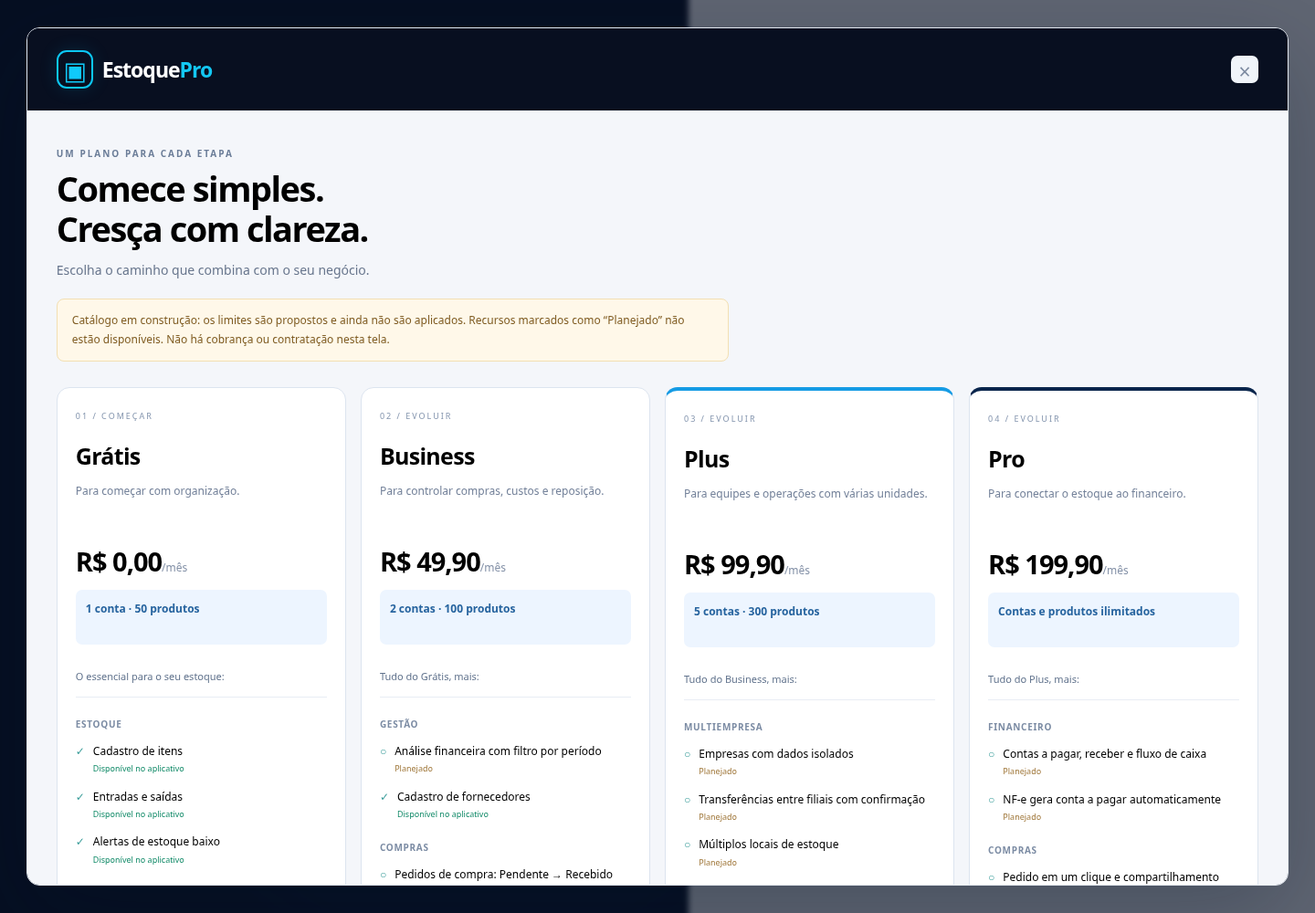
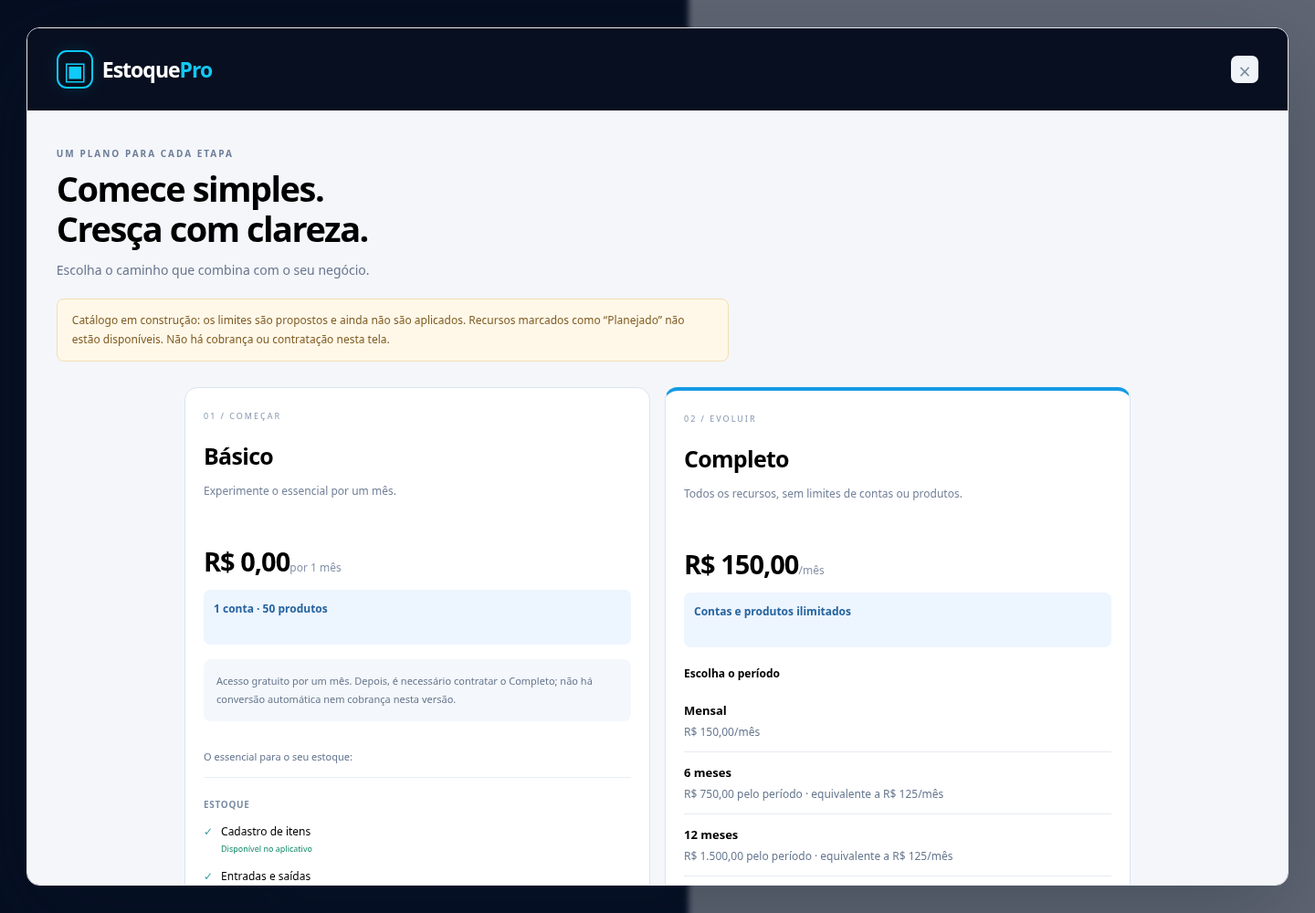
feat: simplificar catalogo para Basico e Completo com periodos

diff --git a/src/estoquepro/static/plans.js b/src/estoquepro/static/plans.js
@@ -13,11 +13,11 @@
         if (!response.ok) throw new Error('Não foi possível carregar os planos.');
         catalog = (await response.json()).plans;
       }
-      target.innerHTML = '<div class="plan-grid">' + catalog.map((plan, index) => {
+      target.innerHTML = '<div class="plan-grid two-plans">' + catalog.map((plan, index) => {
         const predecessor = catalog.find(p => p.id === plan.inherits);
         const groups = [...new Set(plan.features.map(f => f.group))];
         const limits = plan.accounts === null ? 'Contas e produtos ilimitados' : `${plan.accounts} ${plan.accounts === 1 ? 'conta' : 'contas'} · ${plan.products} produtos`;
-        return `<article class="plan-card plan-${escape(plan.id)}"><p class="plan-number">0${index+1} / ${index ? 'EVOLUIR' : 'COMEÇAR'}</p><h3>${escape(plan.name)}</h3><p class="plan-description">${escape(plan.description)}</p><div class="plan-price">${new Intl.NumberFormat('pt-BR', {style:'currency',currency:'BRL'}).format(plan.price_cents/100) + '<span>/mês</span>'}</div><p class="plan-limits">${escape(limits)}</p><p class="plan-inherits">${predecessor ? `Tudo do ${escape(predecessor.name)}, mais:` : 'O essencial para o seu estoque:'}</p>${groups.map(group => `<section class="plan-feature-group"><h4>${escape(group)}</h4><ul>${plan.features.filter(f=>f.group===group).map(feature=>`<li><span aria-hidden="true">${feature.available?'✓':'○'}</span><div>${escape(feature.name)}<small class="feature-state ${feature.available?'available':''}">${feature.available?'Disponível no aplicativo':'Planejado'}</small></div></li>`).join('')}</ul></section>`).join('')}</article>`;
+        return `<article class="plan-card plan-${escape(plan.id)}"><p class="plan-number">0${index+1} / ${index ? 'EVOLUIR' : 'COMEÇAR'}</p><h3>${escape(plan.name)}</h3><p class="plan-description">${escape(plan.description)}</p><div class="plan-price">${new Intl.NumberFormat('pt-BR', {style:'currency',currency:'BRL'}).format(plan.price_cents/100) + (plan.trial_months ? '<span>por 1 mês</span>' : '<span>/mês</span>')}</div><p class="plan-limits">${escape(limits)}</p>${plan.trial_months ? '<div class="plan-terms">Acesso gratuito por um mês. Depois, é necessário contratar o Completo; não há conversão automática nem cobrança nesta versão.</div>' : '<div class="billing-choices"><h4>Escolha o período</h4>' + plan.billing_options.map(option => '<div class="billing-choice"><strong>' + escape(option.id === 'mensal' ? 'Mensal' : option.id === 'semestral' ? '6 meses' : '12 meses') + '</strong><span>' + new Intl.NumberFormat('pt-BR',{style:'currency',currency:'BRL'}).format(option.total_cents/100) + (option.months === 1 ? '/mês' : ' pelo período · equivalente a R$ 125/mês') + '</span></div>').join('') + '<div class="plan-terms">Condições propostas: plano semestral com prazo de cancelamento antecipado de 2 meses de uso; anual, de 3 meses. Após esse prazo, o período contratado permanece até o fim. A renovação pode ser desativada. Condições de reembolso e direitos legais precisam ser definidos no contrato antes da contratação.</div></div>'}<p class="plan-inherits">${predecessor ? `Tudo do ${escape(predecessor.name)}, mais:` : 'O essencial para o seu estoque:'}</p>${groups.map(group => `<section class="plan-feature-group"><h4>${escape(group)}</h4><ul>${plan.features.filter(f=>f.group===group).map(feature=>`<li><span aria-hidden="true">${feature.available?'✓':'○'}</span><div>${escape(feature.name)}<small class="feature-state ${feature.available?'available':''}">${feature.available?'Disponível no aplicativo':'Planejado'}</small></div></li>`).join('')}</ul></section>`).join('')}</article>`;
       }).join('') + '</div><div class="plan-bottom"><h3>Transparência em cada etapa.</h3><p>As funcionalidades disponíveis hoje continuam acessíveis no aplicativo. O lançamento dos planos depende da implantação de limites, isolamento de empresas e permissões. Integrações Google e atendimento precisam de configuração. Automações serão feitas com regras locais, sem serviços pagos de IA.</p></div>';
     } catch (error) {
       target.innerHTML = '<div class="empty"><b>Planos indisponíveis</b><p></p><button type="button" class="secondary" id="retry-plans">Tentar novamente</button></div>';

diff --git a/src/estoquepro/static/style.css b/src/estoquepro/static/style.css
@@ -2,3 +2,5 @@
 
 .auth-card{width:100%;max-width:355px}.auth-tabs{display:flex;gap:8px;border-bottom:1px solid var(--line);margin-bottom:30px}.auth-tabs button{flex:1;background:none;border:0;border-bottom:3px solid transparent;padding:13px;color:var(--muted);font-weight:650;font-size:13px}.auth-tabs button[aria-selected="true"]{color:var(--blue);border-bottom-color:var(--blue)}
 .plans-entry{margin:20px 0;font-size:12px;width:100%}#plans-dialog{width:min(1440px,96vw);max-height:94vh;background:#f4f6fa}.plans-header{display:flex;justify-content:space-between;align-items:center;padding:24px 32px;background:#080f20}.plans-intro{padding:40px 32px 28px;max-width:800px}.plans-intro h2{font-size:38px;line-height:1.15;letter-spacing:-1.5px}.plans-intro>p:not(.eyebrow){font-size:14px;color:#68768d}.plans-disclosure{font-size:12px;line-height:1.7;background:#fff8e9;border:1px solid #f2dfb2;border-radius:8px;padding:13px 16px;color:#805d23;margin-top:22px}.plan-grid{padding:0 32px 32px;display:grid;grid-template-columns:repeat(4,minmax(0,1fr));gap:16px;align-items:start}.plan-card{border:1px solid #dce4ef;background:white;border-radius:14px;padding:24px 20px}.plan-plus{border-top:4px solid #159be4}.plan-pro{border-top:4px solid #09254c}.plan-number{font-size:9px;letter-spacing:2px;color:#8495ae;margin:0 0 20px}.plan-card h3{font-size:25px;letter-spacing:-.7px}.plan-description{font-size:12px;line-height:1.7;color:#74829a;min-height:45px}.plan-price{font-size:29px;font-weight:750;letter-spacing:-1px;margin:22px 0 8px}.plan-price span{font-size:12px;font-weight:400;color:#8592a8;letter-spacing:0}.plan-limits{font-size:12px;font-weight:650;line-height:1.6;color:#27649f;background:#edf5ff;padding:11px;border-radius:7px;min-height:60px}.plan-inherits{font-size:11px;color:#61738d;border-bottom:1px solid #e8edf4;padding:15px 0}.plan-feature-group h4{font-size:10px;text-transform:uppercase;letter-spacing:.7px;margin:22px 0 12px;color:#7c8ca4}.plan-feature-group ul{list-style:none;padding:0;margin:0}.plan-feature-group li{display:flex;gap:9px;font-size:12px;line-height:1.6;margin:13px 0}.plan-feature-group li>span{color:#369b98}.feature-state{display:block;font-size:9px;color:#a0783b;margin-top:3px}.feature-state.available{color:#138b69}.plan-bottom{margin:0 32px 32px;padding:25px;background:#e7eff9;border-radius:12px}.plan-bottom p{color:#5d718d;font-size:12px;line-height:1.8;max-width:950px}.sidebar>.plans-entry{margin-top:30px;background:#15233b;border-color:#233856;color:#b2d7f7}@media(max-width:1100px){.plan-grid{grid-template-columns:repeat(2,minmax(0,1fr))}}@media(max-width:600px){.plan-grid{grid-template-columns:1fr;padding:0 16px 16px}.plans-header{padding:20px}.plans-intro{padding:26px 20px}.plans-intro h2{font-size:30px}.plan-bottom{margin:0 16px 16px}.sidebar>.plans-entry{margin:15px 0 0;width:auto}}
+
+.plan-grid.two-plans{grid-template-columns:repeat(2,minmax(0,1fr));max-width:1100px;margin:auto}.plan-terms{font-size:11px;line-height:1.8;color:#66778f;background:#f4f7fb;padding:14px;border-radius:8px;margin:16px 0}.billing-choices h4{font-size:12px;margin:20px 0 10px}.billing-choice{display:grid;gap:6px;border-bottom:1px solid #e5eaf1;padding:13px 0;font-size:13px}.billing-choice span{font-size:12px;color:#66778f}.plan-completo{border-top:4px solid #159be4}@media(max-width:650px){.plan-grid.two-plans{grid-template-columns:1fr}}

diff --git a/src/estoquepro/plans.py b/src/estoquepro/plans.py
@@ -1,4 +1,4 @@
-"""Catálogo de planos propostos; não representa assinatura ou cobrança ativa."""
+"""Catálogo comercial proposto; cobrança e expiração ainda não ativas."""
 import json
 
-PLANS = json.loads('[{"id": "gratis", "name": "Grátis", "accounts": 1, "products": 50, "price_cents": 0, "description": "Para começar com organização.", "inherits": null, "features": [{"group": "Estoque", "name": "Cadastro de itens", "available": true}, {"group": "Estoque", "name": "Entradas e saídas", "available": true}, {"group": "Estoque", "name": "Alertas de estoque baixo", "available": true}, {"group": "Relatórios", "name": "Relatório básico CSV", "available": true}, {"group": "Acesso", "name": "Acesso multidispositivo", "available": false}, {"group": "Integrações", "name": "Backup na conta Google do usuário", "available": false}, {"group": "Atendimento", "name": "Suporte por e-mail", "available": false}]}, {"id": "business", "name": "Business", "accounts": 2, "products": 100, "price_cents": 4990, "description": "Para controlar compras, custos e reposição.", "inherits": "gratis", "features": [{"group": "Gestão", "name": "Análise financeira com filtro por período", "available": false}, {"group": "Gestão", "name": "Cadastro de fornecedores", "available": true}, {"group": "Compras", "name": "Pedidos de compra: Pendente → Recebido", "available": false}, {"group": "Estoque", "name": "Cobertura de estoque em dias", "available": false}, {"group": "Estoque", "name": "Movimentação em lote", "available": false}, {"group": "Custos", "name": "Custo médio ponderado", "available": false}, {"group": "Estoque", "name": "Histórico completo de cada item", "available": false}, {"group": "Relatórios", "name": "Exportação Excel e PDF", "available": false}, {"group": "Estoque", "name": "Validade por lote e saída FEFO", "available": false}, {"group": "Atendimento", "name": "Suporte prioritário via WhatsApp", "available": false}]}, {"id": "plus", "name": "Plus", "accounts": 5, "products": 300, "price_cents": 9990, "description": "Para equipes e operações com várias unidades.", "inherits": "business", "features": [{"group": "Multiempresa", "name": "Empresas com dados isolados", "available": false}, {"group": "Multiempresa", "name": "Transferências entre filiais com confirmação", "available": false}, {"group": "Multiempresa", "name": "Múltiplos locais de estoque", "available": false}, {"group": "Multiempresa", "name": "Múltiplos pontos de atendimento", "available": false}, {"group": "Automação sem IA paga", "name": "Sugestões de compra por regras locais", "available": false}, {"group": "Automação sem IA paga", "name": "Importação por XML da NF-e", "available": false}, {"group": "Automação sem IA paga", "name": "Curva ABC automática", "available": false}, {"group": "Automação sem IA paga", "name": "Resumo executivo diário", "available": false}, {"group": "Equipe e segurança", "name": "Admin Master e gestão de usuários", "available": false}, {"group": "Equipe e segurança", "name": "Permissões Membro, Admin e Master", "available": false}, {"group": "Equipe e segurança", "name": "Auditoria completa por usuário", "available": false}, {"group": "Equipe e segurança", "name": "Sincronização em tempo real", "available": false}, {"group": "Avançado", "name": "Código de barras no cadastro e movimentação", "available": false}, {"group": "Avançado", "name": "Exportação ABC e sugestões em PDF/Excel", "available": false}, {"group": "Avançado", "name": "Notificações de transferência em tempo real", "available": false}, {"group": "Atendimento", "name": "WhatsApp premium e onboarding personalizado gratuito", "available": false}]}, {"id": "pro", "name": "Pro", "accounts": null, "products": null, "price_cents": 19990, "description": "Para conectar o estoque ao financeiro.", "inherits": "plus", "features": [{"group": "Financeiro", "name": "Contas a pagar, receber e fluxo de caixa", "available": false}, {"group": "Financeiro", "name": "NF-e gera conta a pagar automaticamente", "available": false}, {"group": "Compras", "name": "Pedido em um clique e compartilhamento por WhatsApp", "available": false}, {"group": "Compras", "name": "Cotação com até 3 fornecedores e histórico de preços", "available": false}, {"group": "Estoque", "name": "Inventário cíclico com leitor e contagem cega", "available": false}, {"group": "Estoque", "name": "Impressão de etiquetas de código de barras", "available": false}, {"group": "Marca", "name": "Logo do negócio em relatórios e PDFs", "available": false}, {"group": "Executivo", "name": "Resumo mensal em PDF e semanal por WhatsApp", "available": false}]}]')
+PLANS = json.loads('[{"id": "basico", "name": "Básico", "accounts": 1, "products": 50, "price_cents": 0, "description": "Experimente o essencial por um mês.", "inherits": null, "features": [{"group": "Estoque", "name": "Cadastro de itens", "available": true}, {"group": "Estoque", "name": "Entradas e saídas", "available": true}, {"group": "Estoque", "name": "Alertas de estoque baixo", "available": true}, {"group": "Relatórios", "name": "Relatório básico CSV", "available": true}, {"group": "Acesso", "name": "Acesso multidispositivo", "available": false}, {"group": "Integrações", "name": "Backup na conta Google do usuário", "available": false}, {"group": "Atendimento", "name": "Suporte por e-mail", "available": false}], "trial_months": 1}, {"id": "completo", "name": "Completo", "accounts": null, "products": null, "price_cents": 15000, "description": "Todos os recursos, sem limites de contas ou produtos.", "inherits": "basico", "features": [{"group": "Gestão", "name": "Análise financeira com filtro por período", "available": false}, {"group": "Gestão", "name": "Cadastro de fornecedores", "available": true}, {"group": "Compras", "name": "Pedidos de compra: Pendente → Recebido", "available": false}, {"group": "Estoque", "name": "Cobertura de estoque em dias", "available": false}, {"group": "Estoque", "name": "Movimentação em lote", "available": false}, {"group": "Custos", "name": "Custo médio ponderado", "available": false}, {"group": "Estoque", "name": "Histórico completo de cada item", "available": false}, {"group": "Relatórios", "name": "Exportação Excel e PDF", "available": false}, {"group": "Estoque", "name": "Validade por lote e saída FEFO", "available": false}, {"group": "Atendimento", "name": "Suporte prioritário via WhatsApp", "available": false}, {"group": "Multiempresa", "name": "Empresas com dados isolados", "available": false}, {"group": "Multiempresa", "name": "Transferências entre filiais com confirmação", "available": false}, {"group": "Multiempresa", "name": "Múltiplos locais de estoque", "available": false}, {"group": "Multiempresa", "name": "Múltiplos pontos de atendimento", "available": false}, {"group": "Automação sem IA paga", "name": "Sugestões de compra por regras locais", "available": false}, {"group": "Automação sem IA paga", "name": "Importação por XML da NF-e", "available": false}, {"group": "Automação sem IA paga", "name": "Curva ABC automática", "available": false}, {"group": "Automação sem IA paga", "name": "Resumo executivo diário", "available": false}, {"group": "Equipe e segurança", "name": "Admin Master e gestão de usuários", "available": false}, {"group": "Equipe e segurança", "name": "Permissões Membro, Admin e Master", "available": false}, {"group": "Equipe e segurança", "name": "Auditoria completa por usuário", "available": false}, {"group": "Equipe e segurança", "name": "Sincronização em tempo real", "available": false}, {"group": "Avançado", "name": "Código de barras no cadastro e movimentação", "available": false}, {"group": "Avançado", "name": "Exportação ABC e sugestões em PDF/Excel", "available": false}, {"group": "Avançado", "name": "Notificações de transferência em tempo real", "available": false}, {"group": "Atendimento", "name": "WhatsApp premium e onboarding personalizado gratuito", "available": false}, {"group": "Financeiro", "name": "Contas a pagar, receber e fluxo de caixa", "available": false}, {"group": "Financeiro", "name": "NF-e gera conta a pagar automaticamente", "available": false}, {"group": "Compras", "name": "Pedido em um clique e compartilhamento por WhatsApp", "available": false}, {"group": "Compras", "name": "Cotação com até 3 fornecedores e histórico de preços", "available": false}, {"group": "Estoque", "name": "Inventário cíclico com leitor e contagem cega", "available": false}, {"group": "Estoque", "name": "Impressão de etiquetas de código de barras", "available": false}, {"group": "Marca", "name": "Logo do negócio em relatórios e PDFs", "available": false}, {"group": "Executivo", "name": "Resumo mensal em PDF e semanal por WhatsApp", "available": false}], "billing_options": [{"id": "mensal", "months": 1, "total_cents": 15000, "early_cancellation_months": null}, {"id": "semestral", "months": 6, "total_cents": 75000, "early_cancellation_months": 2}, {"id": "anual", "months": 12, "total_cents": 150000, "early_cancellation_months": 3}]}]')

diff --git a/tests/browser_smoke.py b/tests/browser_smoke.py
@@ -28,9 +28,11 @@ def run():
                 page.goto(f'http://127.0.0.1:{server.server_port}')
                 page.get_by_role('button', name='Conheça nossos planos').click()
                 plans = page.locator('#plans-dialog')
-                expect(plans.locator('.plan-card')).to_have_count(4)
-                expect(plans.locator('.plan-pro .plan-limits')).to_have_text('Contas e produtos ilimitados')
-                expect(plans.locator('.plan-business .plan-price')).to_contain_text('49,90')
+                expect(plans.locator('.plan-card')).to_have_count(2)
+                expect(plans.locator('.plan-completo .plan-limits')).to_have_text('Contas e produtos ilimitados')
+                expect(plans.locator('.plan-completo .plan-price')).to_contain_text('150,00')
+                expect(plans.locator('.billing-choice')).to_have_count(3)
+                expect(plans.locator('.plan-basico .plan-price')).to_contain_text('por 1 mês')
                 page.screenshot(path=str(ROOT / 'docs/prototipos/planos-desktop.png'), full_page=True)
                 page.set_viewport_size({'width': 390, 'height': 844})
                 assert plans.evaluate('(el) => el.scrollWidth <= el.clientWidth'), 'Overflow no catálogo móvel'

diff --git a/tests/test_inventory.py b/tests/test_inventory.py
@@ -284,9 +284,11 @@ class HttpTests(unittest.TestCase):
         self.assertFalse(catalog['limits_enforced'])
         self.assertFalse(catalog['billing_enabled'])
         plans = catalog['plans']
-        self.assertEqual([p['id'] for p in plans], ['gratis', 'business', 'plus', 'pro'])
-        self.assertEqual([p['price_cents'] for p in plans], [0, 4990, 9990, 19990])
-        self.assertEqual([(p['accounts'], p['products']) for p in plans], [(1, 50), (2, 100), (5, 300), (None, None)])
+        self.assertEqual([p['id'] for p in plans], ['basico', 'completo'])
+        self.assertEqual([p['price_cents'] for p in plans], [0, 15000])
+        self.assertEqual([(p['accounts'], p['products']) for p in plans], [(1, 50), (None, None)])
+        self.assertEqual(plans[0]['trial_months'], 1)
+        self.assertEqual([(o['months'], o['total_cents'], o['early_cancellation_months']) for o in plans[1]['billing_options']], [(1,15000,None),(6,75000,2),(12,150000,3)])
         for index, plan in enumerate(plans):
             self.assertEqual(plan['inherits'], plans[index-1]['id'] if index else None)
             self.assertEqual(len({f['name'] for f in plan['features']}), len(plan['features']))

diff --git a/docs/planos.md b/docs/planos.md
@@ -1,90 +1,72 @@
-# Planos e evolução funcional
+# Dois planos — proposta atual
 
-Preços iniciais propostos em 04/11/2026. Não há assinatura, cobrança, contratação de serviço ou mudança automática de permissões. Valores sujeitos à revisão de custos de hospedagem, armazenamento, impostos e capacidade de atendimento antes da comercialização. O suporte descrito é uma proposta comercial: não há equipe, e-mail ou WhatsApp de suporte configurados.
+Substitui os quatro planos anteriores. O catálogo é funcional; contratação, cobrança, expiração e restrições ainda não estão ativas. Recursos marcados como planejados continuam pendentes.
 
-| Plano | Mensalidade proposta | Contas | Produtos |
-|---|---:|---:|---:|
-| Grátis | R$ 0 | 1 | 50 |
-| Business | R$ 49,90 | 2 | 100 |
-| Plus | R$ 99,90 | 5 | 300 |
-| Pro | R$ 199,90 | Ilimitadas | Ilimitados |
+| Plano | Preço total | Duração | Contas / produtos |
+|---|---:|---|---|
+| Básico | R$ 0 | Somente 1 mês | 1 / 50 |
+| Completo mensal | R$ 150 | 1 mês | Ilimitados |
+| Completo semestral | R$ 750 | 6 meses | Ilimitados |
+| Completo anual | R$ 1.500 | 12 meses | Ilimitados |
 
-Hierarquia cumulativa: Grátis → Business → Plus → Pro. As repetições e prefixos `svg` do texto recebido foram removidos. Contas significam usuários ativos por organização; produtos significam itens ativos somados entre as empresas da organização. Essa definição é proposta e ainda não é aplicada no banco. “Ilimitados” significa ausência de quota comercial, sem promessa de capacidade física infinita.
+São **dois planos**, sendo três modalidades de pagamento do mesmo Completo. Semestral e anual equivalem a R$125/mês, com pagamento total do período; economia de R$150/semestre e R$300/ano em relação ao mensal. Não é parcelamento nem cobrança já habilitada.
 
-## Entregue nesta revisão
+## Condições de cancelamento propostas
 
-Página de comparação com identidade própria, acessível antes de entrar e dentro do aplicativo. Fonte única de dados em `src/estoquepro/plans.py`, exposta por GET `/api/plans`. A página identifica recursos existentes e planejados; limites propostos e cobrança desativada são explícitos. Nada foi bloqueado retroativamente: fornecedores continuam acessíveis e os usuários existentes continuam no mesmo estoque compartilhado.
+Pedido recebido: semestral sem cancelamento após dois meses de uso e anual após três meses. A tela apresenta esses prazos como condições propostas de encerramento antecipado do período contratado, mantendo a possibilidade de desativar a renovação. Política de reembolso, proporcionalidade, direito de arrependimento e demais obrigações legais precisam de definição contratual e revisão antes da venda. Não existe bloqueio de cancelamento ou cobrança no sistema atual. Não foram inventados termos definitivos de reembolso para mensal, semestral ou anual.
 
-**Esta revisão não implementa os módulos avançados abaixo nem transforma a aplicação local em um SaaS multiempresa.** A página não tem botão de contratar que simule um upgrade inexistente.
+O período gratuito será de um mês de calendário; não deve renovar gratuitamente nem gerar cobrança automática. Nesta revisão, essa duração é declarada no catálogo, mas **não há expiração aplicada às contas atuais**.
 
-## Matriz funcional solicitada
+## Recursos
 
-### Grátis
+### Básico
 
-| Grupo | Funcionalidade | Situação |
-|---|---|---|
-| Estoque | Cadastro de itens | Disponível no app atual (sem restrição por plano) |
-| Estoque | Entradas e saídas | Disponível no app atual (sem restrição por plano) |
-| Estoque | Alertas de estoque baixo | Disponível no app atual (sem restrição por plano) |
-| Relatórios | Relatório básico CSV | Disponível no app atual (sem restrição por plano) |
-| Acesso | Acesso multidispositivo | Pendente de implementação/configuração |
-| Integrações | Backup na conta Google do usuário | Pendente de implementação/configuração |
-| Atendimento | Suporte por e-mail | Pendente de implementação/configuração |
+- Cadastro de itens — disponível no aplicativo atual.
+- Entradas e saídas — disponível no aplicativo atual.
+- Alertas de estoque baixo — disponível no aplicativo atual.
+- Relatório básico CSV — disponível no aplicativo atual.
+- Acesso multidispositivo — planejado.
+- Backup na conta Google do usuário — planejado.
+- Suporte por e-mail — planejado.
 
-### Business
+### Completo
 
-Inclui o plano anterior.
+Inclui tudo do Básico, mais:
 
-| Grupo | Funcionalidade | Situação |
-|---|---|---|
-| Gestão | Análise financeira com filtro por período | Pendente de implementação/configuração |
-| Gestão | Cadastro de fornecedores | Disponível no app atual (sem restrição por plano) |
-| Compras | Pedidos de compra: Pendente → Recebido | Pendente de implementação/configuração |
-| Estoque | Cobertura de estoque em dias | Pendente de implementação/configuração |
-| Estoque | Movimentação em lote | Pendente de implementação/configuração |
-| Custos | Custo médio ponderado | Pendente de implementação/configuração |
-| Estoque | Histórico completo de cada item | Pendente de implementação/configuração |
-| Relatórios | Exportação Excel e PDF | Pendente de implementação/configuração |
-| Estoque | Validade por lote e saída FEFO | Pendente de implementação/configuração |
-| Atendimento | Suporte prioritário via WhatsApp | Pendente de implementação/configuração |
-
-### Plus
-
-Inclui o plano anterior.
-
-| Grupo | Funcionalidade | Situação |
-|---|---|---|
-| Multiempresa | Empresas com dados isolados | Pendente de implementação/configuração |
-| Multiempresa | Transferências entre filiais com confirmação | Pendente de implementação/configuração |
-| Multiempresa | Múltiplos locais de estoque | Pendente de implementação/configuração |
-| Multiempresa | Múltiplos pontos de atendimento | Pendente de implementação/configuração |
-| Automação sem IA paga | Sugestões de compra por regras locais | Pendente de implementação/configuração |
-| Automação sem IA paga | Importação por XML da NF-e | Pendente de implementação/configuração |
-| Automação sem IA paga | Curva ABC automática | Pendente de implementação/configuração |
-| Automação sem IA paga | Resumo executivo diário | Pendente de implementação/configuração |
-| Equipe e segurança | Admin Master e gestão de usuários | Pendente de implementação/configuração |
-| Equipe e segurança | Permissões Membro, Admin e Master | Pendente de implementação/configuração |
-| Equipe e segurança | Auditoria completa por usuário | Pendente de implementação/configuração |
-| Equipe e segurança | Sincronização em tempo real | Pendente de implementação/configuração |
-| Avançado | Código de barras no cadastro e movimentação | Pendente de implementação/configuração |
-| Avançado | Exportação ABC e sugestões em PDF/Excel | Pendente de implementação/configuração |
-| Avançado | Notificações de transferência em tempo real | Pendente de implementação/configuração |
-| Atendimento | WhatsApp premium e onboarding personalizado gratuito | Pendente de implementação/configuração |
-
-### Pro
-
-Inclui o plano anterior.
-
-| Grupo | Funcionalidade | Situação |
-|---|---|---|
-| Financeiro | Contas a pagar, receber e fluxo de caixa | Pendente de implementação/configuração |
-| Financeiro | NF-e gera conta a pagar automaticamente | Pendente de implementação/configuração |
-| Compras | Pedido em um clique e compartilhamento por WhatsApp | Pendente de implementação/configuração |
-| Compras | Cotação com até 3 fornecedores e histórico de preços | Pendente de implementação/configuração |
-| Estoque | Inventário cíclico com leitor e contagem cega | Pendente de implementação/configuração |
-| Estoque | Impressão de etiquetas de código de barras | Pendente de implementação/configuração |
-| Marca | Logo do negócio em relatórios e PDFs | Pendente de implementação/configuração |
-| Executivo | Resumo mensal em PDF e semanal por WhatsApp | Pendente de implementação/configuração |
+- Análise financeira com filtro por período — planejado.
+- Cadastro de fornecedores — disponível no aplicativo atual.
+- Pedidos de compra: Pendente → Recebido — planejado.
+- Cobertura de estoque em dias — planejado.
+- Movimentação em lote — planejado.
+- Custo médio ponderado — planejado.
+- Histórico completo de cada item — planejado.
+- Exportação Excel e PDF — planejado.
+- Validade por lote e saída FEFO — planejado.
+- Suporte prioritário via WhatsApp — planejado.
+- Empresas com dados isolados — planejado.
+- Transferências entre filiais com confirmação — planejado.
+- Múltiplos locais de estoque — planejado.
+- Múltiplos pontos de atendimento — planejado.
+- Sugestões de compra por regras locais — planejado.
+- Importação por XML da NF-e — planejado.
+- Curva ABC automática — planejado.
+- Resumo executivo diário — planejado.
+- Admin Master e gestão de usuários — planejado.
+- Permissões Membro, Admin e Master — planejado.
+- Auditoria completa por usuário — planejado.
+- Sincronização em tempo real — planejado.
+- Código de barras no cadastro e movimentação — planejado.
+- Exportação ABC e sugestões em PDF/Excel — planejado.
+- Notificações de transferência em tempo real — planejado.
+- WhatsApp premium e onboarding personalizado gratuito — planejado.
+- Contas a pagar, receber e fluxo de caixa — planejado.
+- NF-e gera conta a pagar automaticamente — planejado.
+- Pedido em um clique e compartilhamento por WhatsApp — planejado.
+- Cotação com até 3 fornecedores e histórico de preços — planejado.
+- Inventário cíclico com leitor e contagem cega — planejado.
+- Impressão de etiquetas de código de barras — planejado.
+- Logo do negócio em relatórios e PDFs — planejado.
+- Resumo mensal em PDF e semanal por WhatsApp — planejado.
 
 ## Implementação necessária antes de ativar planos
 
@@ -97,9 +79,4 @@ Inclui o plano anterior.
 
 ## Aceitação para lançamento
 
-- Grátis recusa o 51º produto e o 2º membro; Business recusa o 101º e o 3º; Plus recusa o 301º e o 6º. Pro não tem quota comercial. Tentativas concorrentes não ultrapassam limites.
-- Dados de organizações distintas não aparecem em consultas, transferências, eventos, exports ou backups. Troca de empresa não altera permissões.
-- Recurso pago não executa pela API quando não autorizado, inclusive chamando endpoint diretamente.
-- Recebimentos, transferência, NF-e e jobs são idempotentes. Falha desfaz transações sem perda de saldo.
-- Backup/restauração, permissões e histórico são testados por organização, incluindo migração do banco existente.
-- Publicação comercial só após validar integrações, capacidade operacional e atendimento real; preços não incluem serviços externos já contratados.
+Básico deve expirar após um mês de calendário desde a ativação, mantendo acesso à conta, contratação e exportação dos próprios dados, sem conversão automática em plano pago. Quotas básicas propostas: 1 conta e 50 produtos. Completo não terá quota comercial. Bloqueio de novos cadastros deve ser transacional e preservar dados existentes. As regras de expiração, autorização, cobrança, renovação e cancelamento precisam ser implementadas e testadas no backend antes de lançamento comercial.

diff --git a/docs/testes/resultado.md b/docs/testes/resultado.md
@@ -89,3 +89,8 @@ A aba Cadastro cria usuários do mesmo negócio, com as mesmas permissões; não
 - `CHROMIUM_PATH=/usr/bin/chromium python tests/browser_smoke.py`: comparação abriu antes do login, exibiu quatro cartões, preço Business e Pro ilimitado; sem overflow interno a 390 px; fluxo existente completo aprovado, sem exceções JavaScript.
 - `node --check src/estoquepro/static/plans.js` e compilação Python aprovados. Capturas em `docs/prototipos/planos-desktop.png` e `planos-mobile.png`.
 - Estes testes validam o catálogo, não a execução dos recursos planejados. Quotas, cobrança e módulos comerciais ainda não foram implementados; situação por recurso em `docs/planos.md`.
+
+
+## Dois planos e modalidades de pagamento — 04/11/2026
+
+26 testes aprovados (5,337 s), sem falhas ou ignorados. Catálogo validado com Básico gratuito por um mês e Completo por R$150 mensal, R$750 semestral e R$1.500 anual; metadados de prazos de cancelamento antecipado de 2/3 meses. Teste Chromium aprovado em desktop/mobile, com exatamente dois cartões e três modalidades, sem exceções JavaScript. Capturas dos planos regeneradas. Estes testes não validam cobrança, expiração ou bloqueio de cancelamento: continuam não implementados.

diff --git a/README.md b/README.md
@@ -106,4 +106,6 @@ O **PDF da especificação**, o **template oficial**, os **integrantes e suas re
 
 ## Planos propostos
 
-A tela **Planos e recursos**, também acessível antes do login, apresenta Grátis (R$ 0, 1 conta/50 produtos), Business (R$ 49,90, 2/100), Plus (R$ 99,90, 5/300) e Pro (R$ 199,90, contas e produtos ilimitados). A comparação tem visual próprio e separa recursos atuais de planejados. **Não há cobrança, quotas aplicadas ou ativação dos módulos avançados nesta revisão.** Veja a [matriz funcional e roteiro de implantação](docs/planos.md).
+Dois planos: **Básico**, gratuito somente por um mês (1 conta e 50 produtos), e **Completo**, sem limites comerciais de contas/produtos: R$150 mensal, R$750 por seis meses ou R$1.500 por doze meses. A comparação é acessível antes e depois do login. Recursos existentes e planejados são identificados individualmente.
+
+**Cobrança, limites e expiração ainda não são aplicados.** Condições propostas de cancelamento antecipado: até dois meses no semestral e até três no anual, com possibilidade de desativar renovação e condições contratuais a revisar antes da venda. Veja a [matriz funcional e roteiro de implantação](docs/planos.md).
